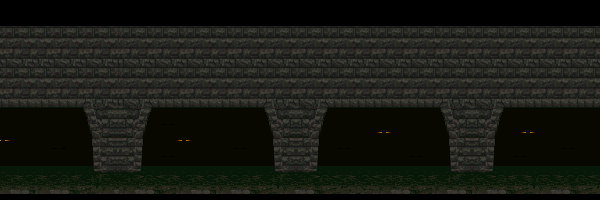
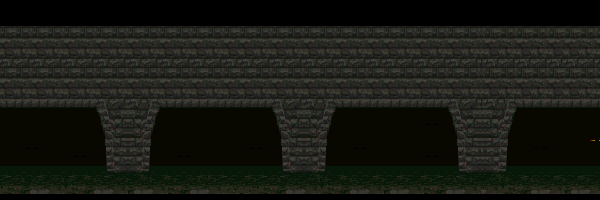
slightly better goro lair

diff --git a/home.js b/home.js
@@ -294,6 +294,16 @@ function main(){
 			ctx.scale(1,1);
 		}
 
+		drawSkinBackground(ratio){
+			ctx.scale(2*this.orientation,2);
+			//console.log(this.costume);
+			var coords = this.coordinates.get(this.costume);
+			//console.log((this.x+decalagex-camerax+coords.decx*this.orientation-this.orientation*coords.width/2+shakex)*this.orientation,ground-this.y-coords.height-coords.decy+shakey);
+			ctx.drawImage(this.skin,coords.offx,coords.offy,coords.width,coords.height,(this.x+decalagex-camerax*ratio+coords.decx*this.orientation-this.orientation*coords.width/2+shakex)*this.orientation,ground-this.y-coords.height-coords.decy+shakey,coords.width,coords.height);
+			ctx.setTransform(1, 0, 0, 1, 0, 0);
+			ctx.scale(1,1);
+    	}
+
 		delete(){
 			objects_to_loop.delete(this.num);
 		}
@@ -388,6 +398,24 @@ function main(){
 			}
 		}
 	}
+
+	class EyesLurking extends VisualObject{
+		constructor(x,y){
+			super(x,y,1,propspng,"eyes",propscoordinates,10,-2);
+			this.cost_cpt = randomInt(200,1000); this.phase_cpt = randomInt(500,700);
+		}
+		afficher(){
+			this.cost_cpt--;
+			if(this.cost_cpt<0){this.cost_cpt+=this.phase_cpt;}
+			if(this.cost_cpt<120){
+				if(this.cost_cpt>=100){ctx.globalAlpha = (120-this.cost_cpt)*0.05}
+				else if(this.cost_cpt<=20){ctx.globalAlpha = this.cost_cpt*0.05;}
+				this.drawSkinBackground(backgroundscroll[chosenstage]);
+				ctx.globalAlpha = 1.;
+			}
+		}
+	}
+
 
 	class Blood extends VisualObject
 	{
@@ -6016,7 +6044,7 @@ function main(){
 		chosenstage = Math.floor(Math.random()*numberofstages);
 		if(arcadelevel>=0){chosenstage = arcadestagesorder[arcadelevel];}
 		if(survival_handler.is_active()){chosenstage = survival_handler.get_stage();}
-		//chosenstage = 3;
+		//chosenstage = 4;
 		ground = grounds[chosenstage];
 		stage_size = stagesizes[chosenstage];
 	}
@@ -6042,6 +6070,15 @@ function main(){
 			add_to_objects_set(new TreeGrimace(-190,59,600));
 			add_to_objects_set(new TreeGrimace(162,59,800));
 			add_to_objects_set(new SecretCoucou());
+		}
+		else if(chosenstage==4){
+			add_to_objects_set(new EyesLurking(110,90));
+			add_to_objects_set(new EyesLurking(140,100));
+			add_to_objects_set(new EyesLurking(-40,90));
+			add_to_objects_set(new EyesLurking(-70,80));
+			add_to_objects_set(new EyesLurking(0,88));
+			add_to_objects_set(new EyesLurking(-180,85));
+			add_to_objects_set(new EyesLurking(-220,95));
 		}
 	}
 

diff --git a/costumescoordinates.js b/costumescoordinates.js
@@ -1917,6 +1917,7 @@ function getpropscoordinates(){
 	propscoordinates.set("treegrimace7",{offx:122,width:46,offy:441,height:64,decx:0,decy:0});
 	propscoordinates.set("smokecoucou",{offx:178,width:14,offy:441,height:56,decx:0,decy:0});
 	propscoordinates.set("jadecoucou",{offx:208,width:15,offy:441,height:57,decx:0,decy:0});
+	propscoordinates.set("eyes",{offx:468,width:14,offy:124,height:1,decx:0,decy:0});
 	return propscoordinates;
 }
 
